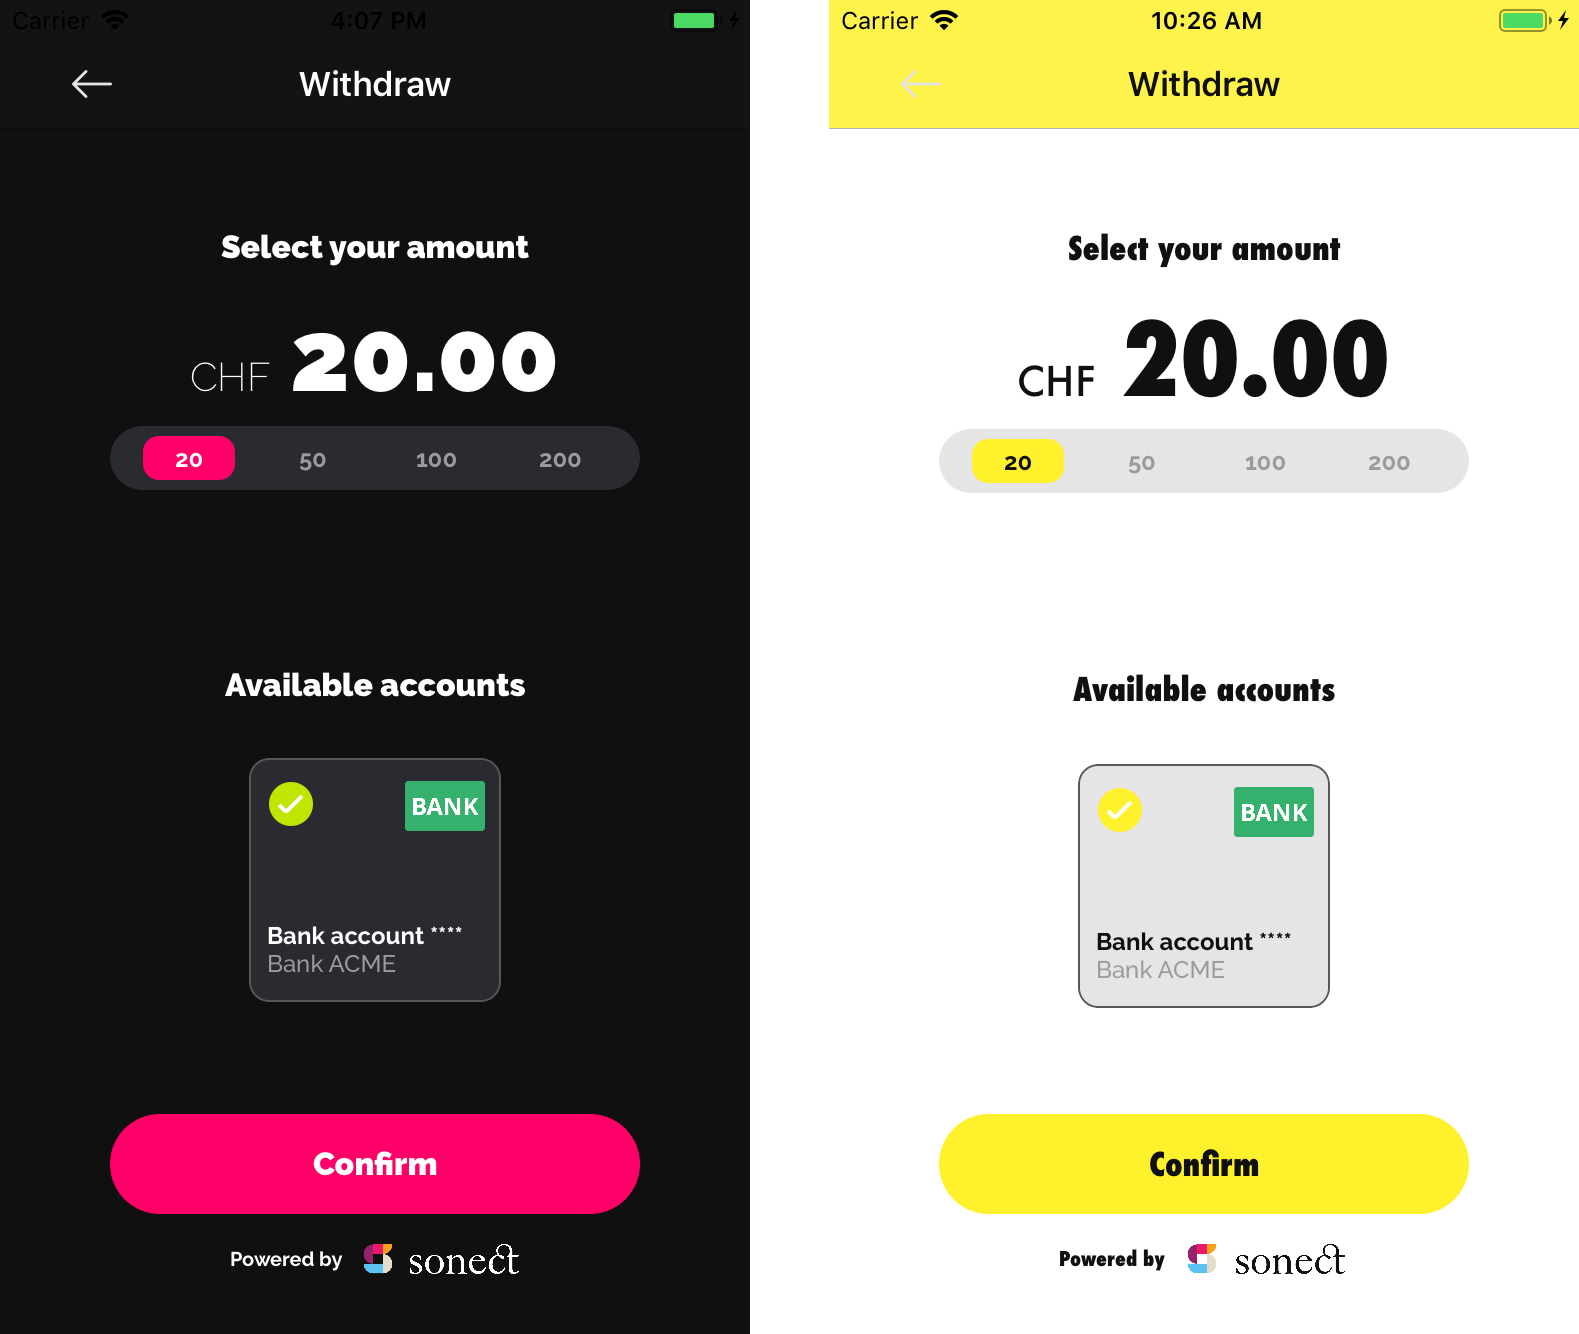
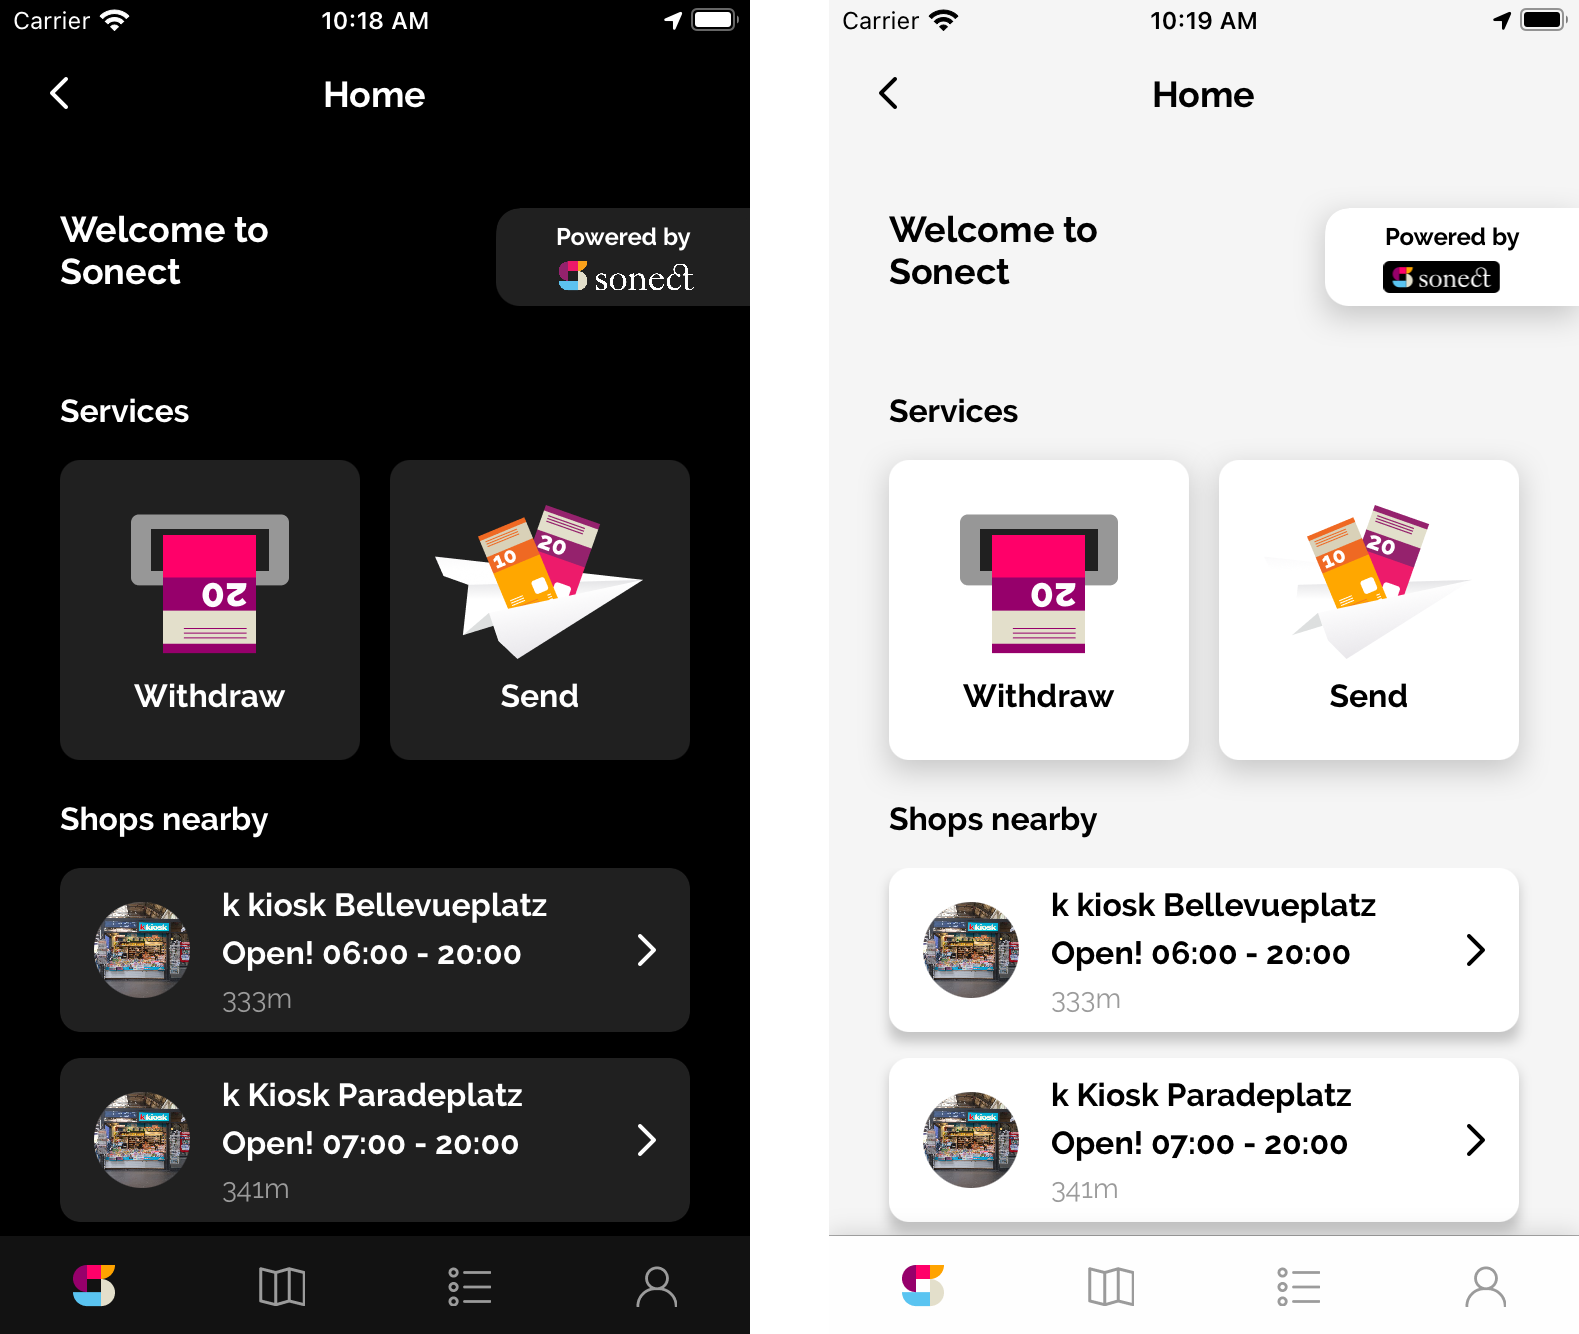
Update theme example

diff --git a/README.md b/README.md
@@ -1,4 +1,4 @@
-# Sonect SDK for iOS [PRELIMINARY]
+# Sonect SDK for iOS
 
 In this document we will go through the necessary steps to integrate
 Sonect SDK in your iOS app. 
@@ -118,13 +118,10 @@ SNCTheme *theme = [SNCTheme new];
 theme.type = SNCThemeTypeLight;
 theme.fontName = "Futura-Medium";
 theme.boldFontName = "Futura-CondensedExtraBold";
-theme.detailColor1 = UIColor.yellowColor;
-theme.detailColor2 = UIColor.yellowColor;
-theme.detailColor3 = UIColor.yellowColor;
-theme.detailColor4 = UIColor.yellowColor;
-theme.detailColor5 = UIColor.yellowColor;
-theme.navigationBarTintColor = UIColor.yellowColor;
-theme.navigationBarTitleImage = [UIImage imageNamed:@"rba"];
+theme.primaryColor1 = UIColor.yellowColor;
+theme.primaryColor2 = UIColor.yellowColor;
+theme.primaryColor3 = UIColor.yellowColor;
+theme5.statusTextColor1 = UIColor.redColor;
 [theme set];
 ```
 
